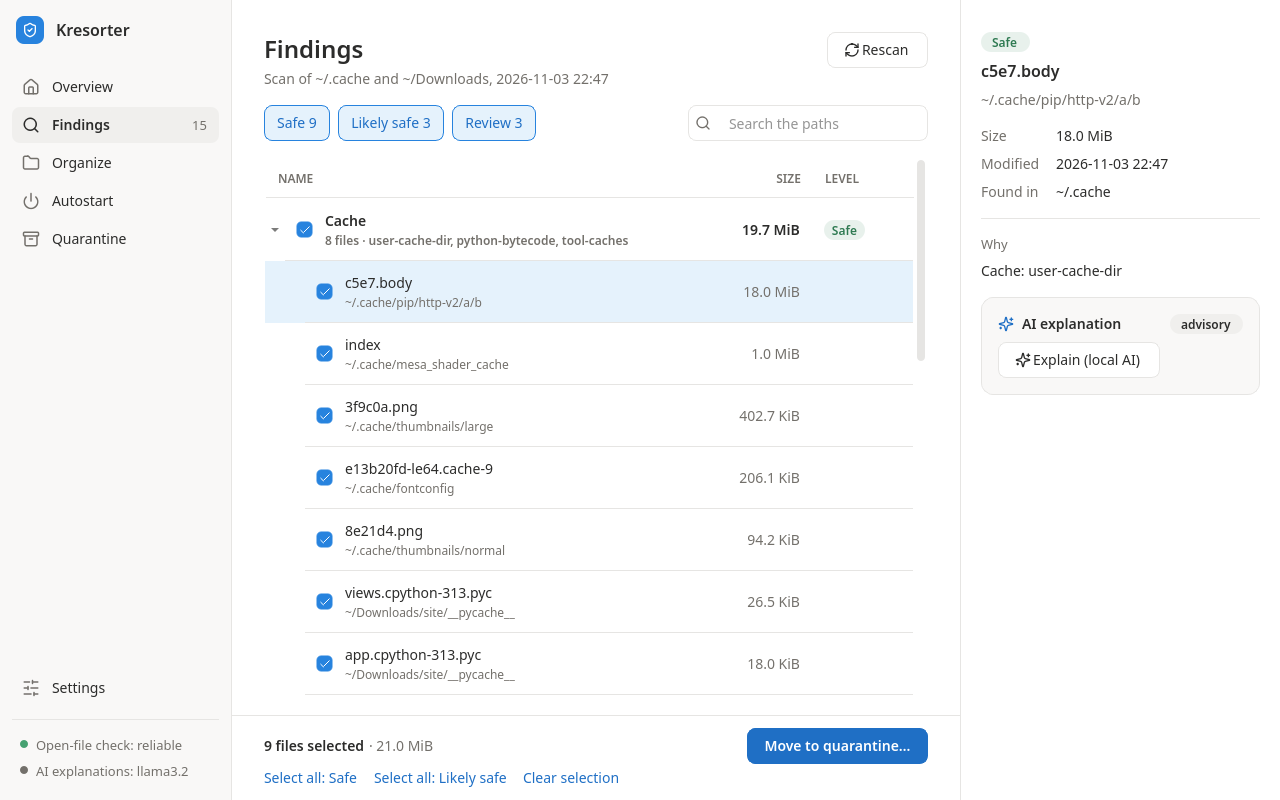
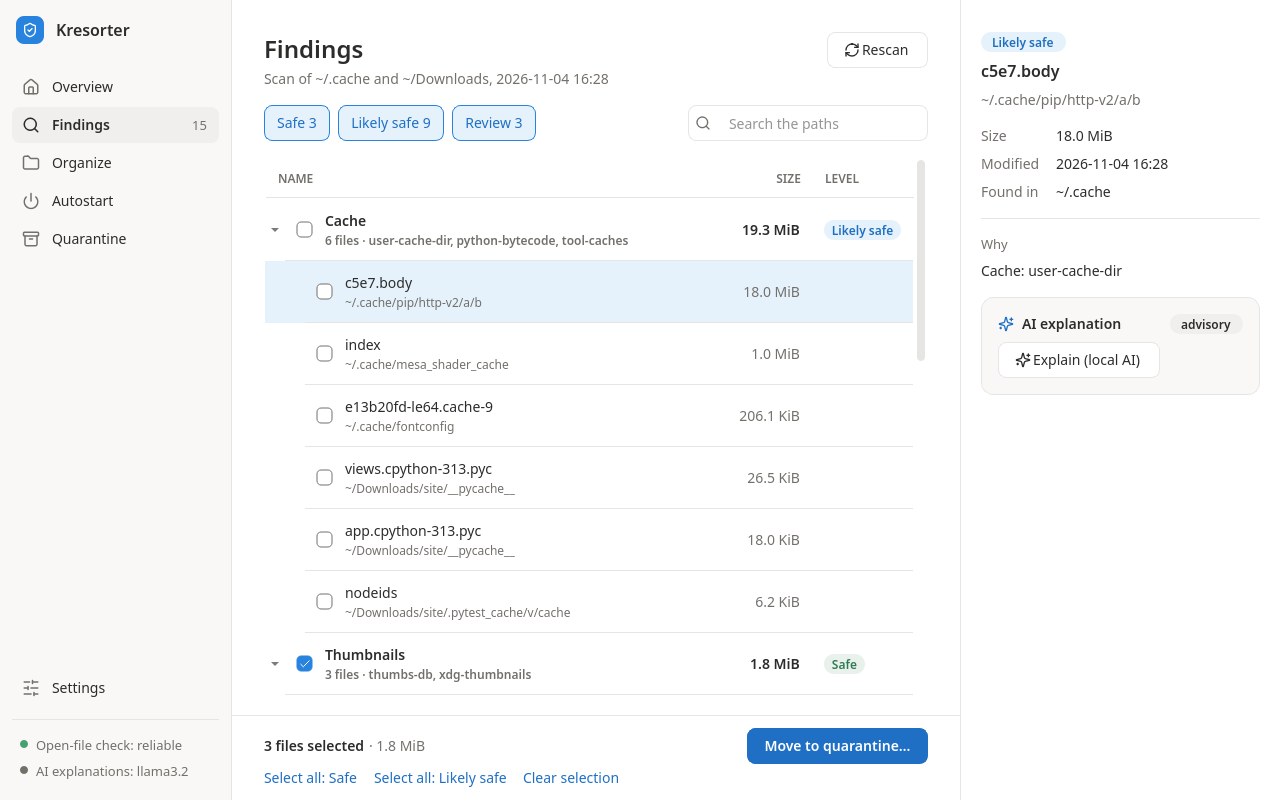
docs: the README's levels say a cache is likely safe and a browser's is for review, and why; its window section says the theme, the restart, Select all, the zones left out, the model's choice and recommendation, grouping by meaning and what it sends, the Local AI card and settings.json as written; t

diff --git a/tests/test_docs_0018.py b/tests/test_docs_0018.py
@@ -29,8 +29,8 @@ def _read(name: str) -> str:
 
 
 def _said(name: str, title: str) -> str:
-    """A section's text, its lines joined by spaces."""
-    return " ".join(section(_read(name), title))
+    """A section's text, its lines joined and each run of spaces one."""
+    return " ".join(" ".join(section(_read(name), title)).split())
 
 
 def _en(key: str) -> str:
@@ -159,7 +159,9 @@ def test_the_roadmap_records_the_work_and_the_accepted_limitations() -> None:
 
 def test_the_layout_names_every_module_of_llm() -> None:
     # [0018.43] machine and group came with this decision.
-    layout = _read("docs/roadmap.md").split("## Target package layout", 1)[1]
-    [line] = [line for line in layout.splitlines() if "── llm/" in line]
+    layout = _read("docs/roadmap.md").split("## Target package layout", 1)[1].splitlines()
+    [start] = [index for index, line in enumerate(layout) if "── llm/" in line]
+    end = next(index for index in range(start + 1, len(layout)) if "──" in layout[index])
+    line = " ".join(layout[start:end])  # its comment, and the comment lines that continue it
     found = sorted(path.stem for path in (ROOT / "src" / "kresorter" / "llm").glob("*.py"))
     assert [name for name in found if not name.startswith("__") and name not in line] == []

diff --git a/tests/test_readme_ui.py b/tests/test_readme_ui.py
@@ -83,7 +83,12 @@ def test_the_section_names_both_languages_and_the_one_file_kept() -> None:
     assert "English" in text
     assert "Russian" in text
     assert f"`{SETTINGS_NAME}`" in text
-    defaults = {"language": DEFAULTS.language, "include_machine": DEFAULTS.include_machine}
+    defaults = {
+        "language": DEFAULTS.language,
+        "include_machine": DEFAULTS.include_machine,
+        "skipped_zones": list(DEFAULTS.skipped_zones),
+        "theme": DEFAULTS.theme,
+    }
     assert f"`{json.dumps(defaults)}`" in text
 
 

diff --git a/tests/test_decision_0018.py b/tests/test_decision_0018.py
@@ -24,7 +24,7 @@ from support.decisions import (
 
 DECISION = "0018"
 # Taken out by the commit that completes each item (the plan of 0018).
-COMPLETED: frozenset[int] = frozenset({*range(1, 22), 23, *range(24, 41), 44})
+COMPLETED: frozenset[int] = frozenset(range(1, 45))
 PENDING: frozenset[int] = frozenset(range(1, 45)) - COMPLETED
 
 

diff --git a/README.md b/README.md
@@ -95,6 +95,13 @@ duplicate groups and everything it skipped, with the reason. `analyze` rates eac
 decided for you and that copy is never proposed. Large (`--large`, MiB) and old (`--older-than`,
 days unmodified) files are listed for review only.
 
+A cache is `likely_safe`: proposed, but never chosen for you, since the program that made it
+has to make it again; thumbnails and the systems' folder metadata stay `safe`. But a browser's
+cache is `review` (Chrome, Chromium, Firefox, Edge, Brave, Opera, Vivaldi, Yandex), never
+proposed: the browsers say it holds no sign-ins, which they keep in their cookies, outside it,
+yet making it again costs the time and the traffic of every page, so the choice is yours
+([decision 0018](docs/decisions/0018-owners-requests.md)).
+
 ### Quarantine
 
 ```bash
@@ -216,7 +223,9 @@ Both settings are environment variables. `KRESORTER_OLLAMA_URL`, by default
 `http://127.0.0.1:11434`, is `http://HOST[:PORT]` where HOST is `localhost`, an address in
 `127.0.0.0/8` or `[::1]` (an Ollama listening only on `::1` needs `http://[::1]:11434`);
 anything else is refused, proxy settings are ignored and redirects are not followed.
-`KRESORTER_OLLAMA_MODEL`, by default `llama3.2`, names a model you pulled.
+`KRESORTER_OLLAMA_MODEL`, by default `llama3.2`, names a model you pulled. In the window, the
+Settings page can choose the model among those Ollama has (see
+[Desktop app](#desktop-app-optional)); the commands use `KRESORTER_OLLAMA_MODEL` only.
 
 Each explanation is about one subject, and its facts are all that is sent; the explanation is
 labelled with them as `name=value`:
@@ -267,8 +276,11 @@ load one of these libraries, it names the error and the libraries, and exits wit
 The sidebar opens six pages, with the open-file check and the local AI's model under them:
 
 - **Overview**: the folders to scan (the safe zones, and folders you add) and Scan now, which
-  only reads; then a card per level with its files, size and strongest reasons, which opens
-  Findings with that level only, and a card each for Quarantine, Organize and Autostart.
+  only reads, with a moving bar and the files read so far while it runs. A safe zone can be
+  left out with its remove button and put back with its own link (`+ ~/.cache`); the window
+  remembers it. Then a card per level with its files, size and strongest reasons, which opens
+  Findings with that level only, and a card each for Quarantine, Organize, Autostart and Local
+  AI: the model in use and whether the last Check found it available, which opens Settings.
 - **Findings**: grouped by their strongest reason, with a chip per level and a search, and at
   the right the detail of the file chosen, with why it was found. Only what is proposed at the
   Safe level is selected at first; a Review finding is selected only by its own check box, the
@@ -279,13 +291,28 @@ The sidebar opens six pages, with the open-file check and the local AI's model u
   `organize` refuses (macOS, or no reliable open-file check), the page says why. The
   Russian window names the categories in Russian, but the directories keep their English names
   (`Images`, `Documents`, ...) in every language, so `organize undo` moves back what the window
-  sorted, and the window what the command sorted.
+  sorted, and the window what the command sorted. Once a plan is shown, Group by meaning
+  (local AI) asks the local model to group the files by what their names say (a trip, taxes):
+  it sends the names only, of the files the plan moves or keeps for no kind, sorted, at most
+  100 of at most 100 characters each, with no path, folder, size, time or content. The groups
+  it answers, at most 12 of two files or more into folders whose names are names, make a new
+  plan through the same planner, checked as any; the page says they come from the local AI and
+  may be wrong, and By kind goes back. Sort then moves the plan shown without asking the model
+  again, as one batch that can be undone.
 - **Autostart**: the entries by source, each with its location, its scope and a switch that is
   on while it starts, and a search over names and locations; the switch of an entry that can
   change disables or enables it, and an entry that cannot has a lock.
-- **Quarantine**: the quarantined files; Restore, or Delete permanently, the one red button.
-- **Settings**: a card each for the language, on Windows the machine-wide autostart entries
-  (off until you turn them on), the local AI with its Check, and the data folder.
+- **Quarantine**: the quarantined files, with Select all and Clear selection; Restore, or
+  Delete permanently, the one red button, acts on the files checked.
+- **Settings**: a card each for the language (once a new one is saved, Restart now reopens the
+  window in it, on the same page), Appearance (System, Light or Dark), applied at once, on
+  Windows the machine-wide autostart entries (off until you turn them on), the local AI with
+  its Check, and the data folder. The Check lists the models Ollama has, to choose the one
+  every explanation and grouping uses; `KRESORTER_OLLAMA_MODEL`, when set, wins, and the card
+  says so. The card recommends a model for the computer's memory and processors, Qwen 2.5 for
+  its Russian: `qwen2.5:1.5b` under 8 GiB, `qwen2.5:3b` under 16 GiB, `qwen2.5:7b` under
+  32 GiB, `qwen2.5:14b` otherwise, one size smaller with fewer than four processors; you get it
+  with `ollama pull` and the name, kresorter installs nothing.
 
 ![Findings: the Safe files chosen, grouped by their strongest reason, and the detail of one at the right with why it was found](docs/screenshots/findings.png)
 
@@ -295,10 +322,10 @@ The sidebar opens six pages, with the open-file check and the local AI's model u
 
 ![Autostart: the programs that start at sign-in, each with its location, its scope and its switch](docs/screenshots/autostart.png)
 
-The window follows the system's light or dark scheme; its icons are
-[Lucide](https://lucide.dev)'s, shipped with it under their ISC licence. It needs a screen at
-least 1056 px wide in English and 1183 px in Russian, for Findings' bar and the detail beside
-it (a 1366 x 768 screen at 125 % is 1093 px wide).
+The window follows the system's light or dark scheme, or the one Appearance chooses; its
+icons are [Lucide](https://lucide.dev)'s, shipped with it under their ISC licence. It needs a
+screen at least 1056 px wide in English and 1183 px in Russian, for Findings' bar and the
+detail beside it (a 1366 x 768 screen at 125 % is 1093 px wide).
 
 ![Findings in the dark scheme](docs/screenshots/findings-dark.png)
 
@@ -311,11 +338,13 @@ finding, an autostart entry or a file that stays in place, asks Ollama about tha
 only when you press it (see [AI explanations](#ai-explanations-optional)).
 
 The window is in English or Russian: the system's language by default (Russian when it is
-Russian, English otherwise), or the one chosen on the Settings page, from the next time it
-opens. It keeps one file, `settings.json` in the data directory (see
-[Recovery](#recovery)), by default `{"language": "system", "include_machine": false}`; it is
-written only when you change a setting, and a broken file is not used, as the Settings page
-says. No finding, path, plan or explanation is kept.
+Russian, English otherwise), or the one chosen on the Settings page, at once with Restart now
+or from the next time it opens. It keeps one file, `settings.json` in the data directory (see
+[Recovery](#recovery)), by default
+`{"language": "system", "include_machine": false, "skipped_zones": [], "theme": "system"}`,
+with `model` once a model is chosen; it is written only when you change a setting, and a
+broken file, one over 64 KiB or a link in its place is not used, as the Settings page says.
+No finding, path, plan, group or explanation is kept.
 
 ## Uninstalling
 

diff --git a/CHANGELOG.md b/CHANGELOG.md
@@ -18,9 +18,10 @@ The first release, an alpha: the console commands and the window, on Windows and
   skipped, with the reason; the safe zones `~/.cache` and `~/Downloads` when no folder is
   named. It only reads.
 - `kresorter analyze [paths] [--json] [--large MIB] [--older-than DAYS] [--explain]`: a safety
-  level for each finding, `safe`, `likely_safe` or `review`, with every reason; the copy of a
-  duplicate group that stays is chosen for you and never proposed, and large and old files are
-  listed for review only. It only reads.
+  level for each finding, `safe`, `likely_safe` or `review`, with every reason; a cache is
+  `likely_safe` and a browser's cache `review`, never proposed; the copy of a duplicate group
+  that stays is chosen for you and never proposed, and large and old files are listed for
+  review only. It only reads.
 - `kresorter quarantine add|list|restore|purge`: files moved aside into a private vault in the
   data directory, each checked again right before it moves (the policy, the disk, open files),
   or the findings of an analysis with `--from-analysis --level safe|likely_safe`; `restore`
@@ -53,22 +54,28 @@ The first release, an alpha: the console commands and the window, on Windows and
   (`~/.ssh`, `~/.gnupg`, `AppData\Roaming`), open files, Kresorter's data directory and the
   folder it runs from; links are never followed.
 - The window, `kresorter-ui` (or `python -m kresorter.ui`) with the extra `ui`: a sidebar of
-  six pages, in English or Russian, light or dark as the system is, running what the commands
-  run on the same journal and lock; every action opens a dialog first, with Cancel as its
-  default button.
-- The **Overview** page: the folders to scan and Scan now, which only reads; a card per safety
-  level with its files, size and strongest reasons, and a card each for Quarantine, Organize
-  and Autostart.
+  six pages, in English or Russian, light or dark as the system is or as chosen, running what
+  the commands run on the same journal and lock; every action opens a dialog first, with
+  Cancel as its default button. A name is shown as it is written, never as formatting.
+- The **Overview** page: the folders to scan, a safe zone left out and put back as you choose,
+  and Scan now, which only reads and shows its progress; a card per safety level with its
+  files, size and strongest reasons, and a card each for Quarantine, Organize, Autostart and
+  Local AI, the model in use and whether the last Check found it.
 - The **Findings** page: the findings grouped by their strongest reason, with a chip per level,
   a search and the detail of the file chosen; only the Safe ones are selected at first, and
   Move to quarantine moves the selection.
 - The **Organize** page: a folder's plan as a card per category and the files that stay, with
-  their reasons; Sort moves it as one batch, and the recent batches can be undone.
+  their reasons; Group by meaning (local AI) groups the files by what their names say, sending
+  the local model their names only, and By kind goes back; Sort moves the plan shown as one
+  batch, and the recent batches can be undone.
 - The **Autostart** page: the entries by source, each with its location, its scope and a
   switch that disables or enables it where it can change, and a lock where it cannot.
-- The **Quarantine** page: the quarantined files, with Restore, and Delete permanently.
-- The **Settings** page: the language, on Windows the machine-wide autostart entries, the local
-  AI with its Check, the data folder and the version.
+- The **Quarantine** page: the quarantined files, with Select all and Clear selection, Restore,
+  and Delete permanently.
+- The **Settings** page: the language, applied at once with Restart now; Appearance, System,
+  Light or Dark; on Windows the machine-wide autostart entries; the local AI with its Check,
+  the model chosen among those Ollama has and the one recommended for the computer; the data
+  folder and the version.
 - `kresorter-ui --self-test REPORT`: opens the window, shows each page, closes it and writes a
   line per page to `REPORT`, changing nothing; on a failure, the error and exit code 1.
 - For Windows, `Kresorter-0.1.0-setup.exe`, for the current user with no administrator rights,

diff --git a/docs/roadmap.md b/docs/roadmap.md
@@ -317,6 +317,43 @@ Scanner core and `kresorter scan` (read-only report).
   quarantine does not ask the synced folders: a junk file in one goes to the vault, which the
   client syncs as a deletion until it is restored.
 
+### Decision 0018: done (the owner's requests)
+- [Decision 0018](decisions/0018-owners-requests.md): the owner's thirteen requests after
+  step 8, by its plan of sixteen steps, each a test and then its fix.
+- The window: a theme, System, Light or Dark, applied at once; a new language offers a restart
+  in the same process, on the same page; Select all and Clear in the quarantine; motion (a page
+  fades in, a switch slides, hover, a scan's bar and progress), none when its duration is 0; a
+  list ringed only when the keyboard focused it; a safe zone left out and put back,
+  remembered in `settings.json`.
+- What a cache is: a cache likely safe, a browser's cache for review in a category of its own,
+  `browser_cache`, named in both languages.
+- Speed: one look at `/proc` per scan, the rules matched and the policy asked once per
+  directory, Windows' share-mode checks and the hashing side by side, and the scan's
+  progress; a scan of 20 000 files on Linux went from 6.1 s to about 1.5 s.
+- The local AI: the model chosen in Settings among those Ollama has, one recommended for the
+  machine's memory and processors (`llm.machine`), named in the sidebar and on the Overview's
+  Local AI card; grouping by meaning on the Organize page (`llm.group`): the names only, one
+  bounded answer checked as untrusted input, a plan made by the planner, By kind to go back,
+  Sort without asking again.
+- The security audit, [`reviews/security-audit.md`](reviews/security-audit.md): every label
+  plain text and every tooltip escaped; nothing in `src` runs text; `settings.json` read with at
+  most 64 KiB, never through a link, a FIFO refused without waiting; the lock refuses a link;
+  the transport refuses an address off loopback.
+- 3396 tests, 100 % line and branch coverage.
+
+### Accepted limitations of decision 0018
+- Everything carried after step 8 still holds.
+- **The scan's look at `/proc` is a moment**: a file opened during a long scan is reported as
+  not open; preflight checks it again before anything acts.
+- **A browser's cache is never proposed**, though the browsers say it holds no sign-ins: the
+  owner's choice, for the time and traffic it costs.
+- **The model can be wrong**: a group may not fit its files; the plan is shown before anything
+  moves, and every batch can be undone.
+- **The names leave kresorter for the model**, on loopback only, when the user asks: the model
+  and Ollama are the user's own.
+- **The recommendation is a rule of thumb** for memory and processors; it reads no graphics
+  card.
+
 ### Left for later
 - B9 (d): no index on `autostart_changes(location)` (skipped, audit decision 5).
 - B11: CI on macOS, and live `WinRegistry` tests.
@@ -333,7 +370,8 @@ src/kresorter/
 ├── analysis/     # step 3: duplicates, size_age, score, report
 ├── autostart/    # step 4: readers, listing, XDG and HKCU Run changes, recover
 ├── organize/     # step 5: categories, planner, mover, journal, recovery, undo (decision 0012)
-├── llm/          # step 6: settings, transport, client, prompt, clean, subjects, explain (0013)
+├── llm/          # step 6: settings, transport, client, prompt, clean, subjects, explain,
+                  #   failure (0013); machine, group (0018)
 └── ui/           # step 7: launch, app, window, sidebar, tasks, i18n, texts, labels, theme,
                   #   icons (and icons/, Lucide's), parts, shown, settings, dialogs, sessions,
                   #   overview, findings, organize, autostart, quarantine, recovery, explain,
